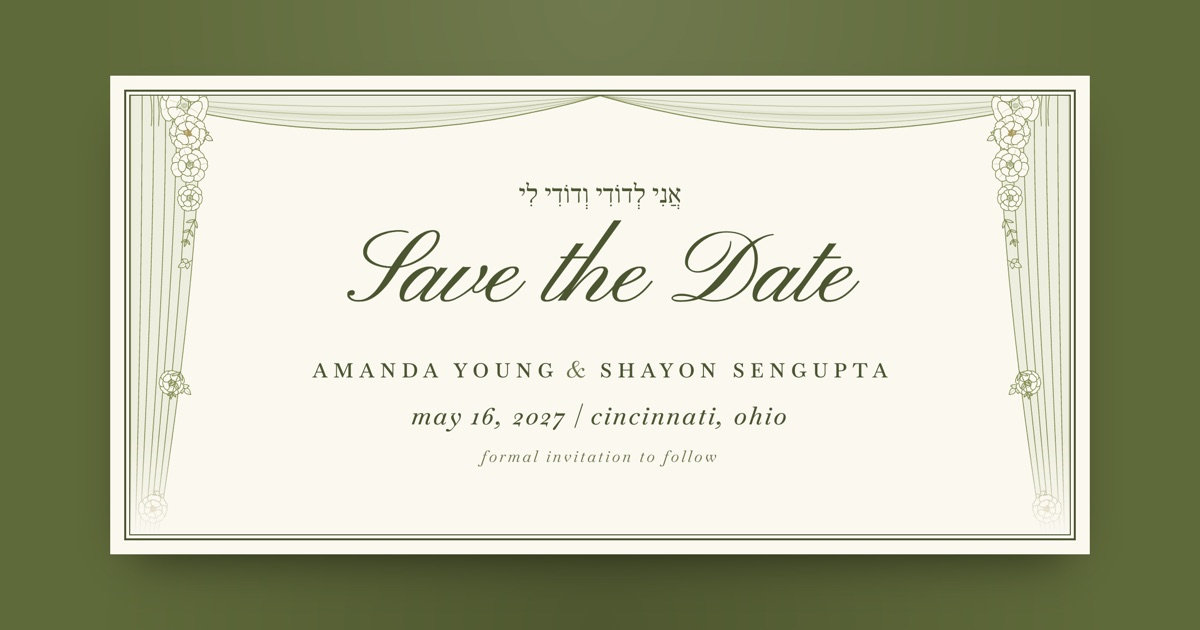
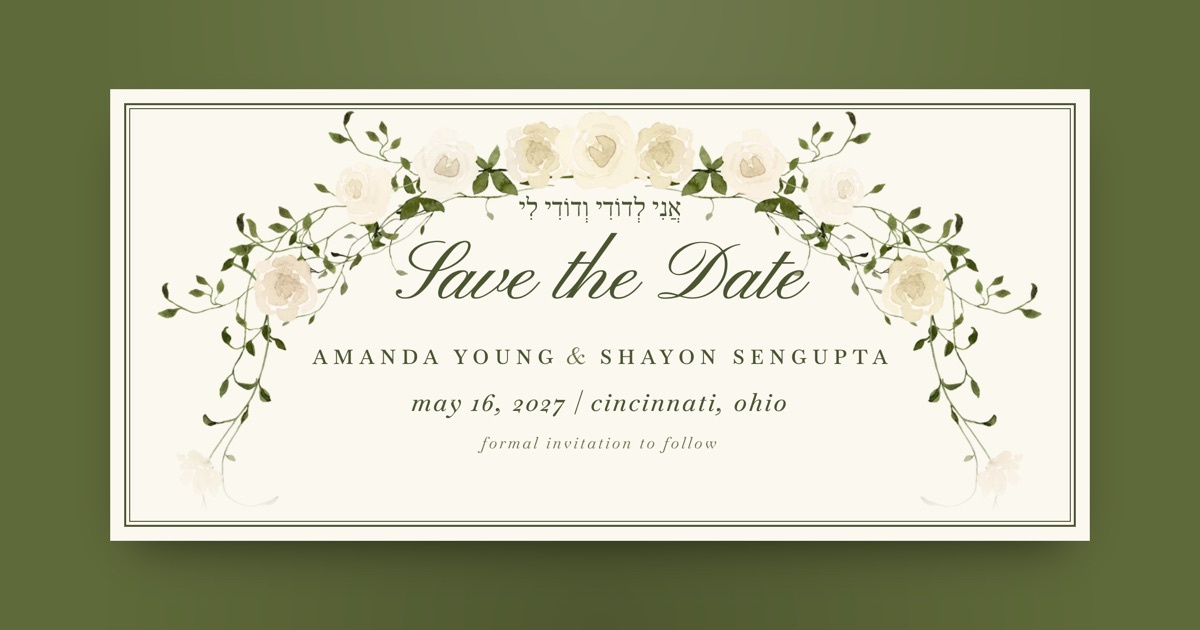
Replace the line-art drapes with a draping arch of ivory roses
- Reviewers found the full-length drapes busy and too much like curtains
- Watercolour rose arch with trailing vines over the header (stock art supplied
  by Amanda), roses recoloured to varied shades of ivory, leaves softened to the
  olive palette (tools-rose-arch.py)
- Remove the drape and swag SVGs; tools-flora.py is no longer used
- Link preview and email images re-rendered

Changed region(s): [[0.0925, 0.1206, 0.925, 0.9048], [0.3392, 0.6333, 0.6783, 0.754]]

diff --git a/styles.css b/styles.css
@@ -78,11 +78,11 @@ body{
   position: relative;
   z-index: 1;
   margin: calc(var(--inset) + 6px);
-  padding: 52px 22px 30px;   /* top clears the swag */
+  padding: 18% 22px 30px;   /* top: under the crown of the rose arch (% of the card's width) */
   text-align: center;
 }
 @media (min-width: 700px){
-  .card-inner{ padding: 72px 56px 44px; }   /* top clears the swag */
+  .card-inner{ padding: 18% 56px 44px; }
 }
 
 /* ---------- hero ---------- */
@@ -140,36 +140,21 @@ body{
   margin: 14px 0 0;
 }
 
-/* ---------- florals: a pair of full-height drapes, flowers along the fabric ----------
-   One drawing (tools-flora.py), mirrored for the right side, hanging just inside
-   the frame. The image keeps its proportions, so its width follows the card
-   height. Phones get a proportionally scaled version. */
-.drape-side{
+/* ---------- florals: a draping arch of ivory roses over the header (the chuppah) ----------
+   assets/rose-arch.webp: a watercolour rose arch with trailing vines, roses recoloured
+   ivory to suit the olive palette. It scales with the card's width. */
+.rose-arch{
   position: absolute;
-  top: var(--hang);
-  bottom: var(--hang);
-  z-index: 0;
-  display: block;
-  pointer-events: none;
-}
-/* swag across the top joining the two drapes at the centre (assets/swag.svg stretches to the card width) */
-.swag{
-  position: absolute;
-  top: var(--hang); left: var(--hang);
-  width: calc(100% - 2 * var(--hang));
-  height: 44px;
+  top: calc(var(--hang) - 2px);
+  left: 50%;
+  transform: translateX(-50%);
+  width: calc(100% - 2 * var(--hang) - 8px);
+  height: auto;
   z-index: 0;
   pointer-events: none;
-}
-@media (max-width: 480px){ .swag{ height: 26px; } }
-.drape-left{ left: var(--hang); }
-.drape-right{ right: var(--hang); transform: scaleX(-1); }
-.drape-side img{ display: block; height: 100%; width: auto; }
-@media (max-width: 699px){
-  .card-inner{ padding-left: 40px; padding-right: 40px; }   /* keep text inside the curtains */
 }
 @media (max-width: 480px){
-  .card-inner{ padding-left: 44px; padding-right: 44px; }
+  .card-inner{ padding-left: 30px; padding-right: 30px; }
   .card-inner .closing-caps{ font-size: 12px; letter-spacing: 0.22em; padding-left: 0.22em; }
   .script-title{ font-size: 36px; white-space: nowrap; }
   .names-caps{ letter-spacing: 0.22em; padding-left: 0.22em; }
@@ -453,9 +438,8 @@ body{
 .preview-og .card{ max-width: 980px; box-shadow: 0 24px 50px -24px rgba(0,0,0,0.6); }
 .preview-og .card-inner > :not(.hero){ display: none; }
 .preview-og .card-inner{ padding: 70px 150px 56px; }
-.preview-og .drape-side{ overflow: hidden; -webkit-mask-image: linear-gradient(#000 78%, transparent); mask-image: linear-gradient(#000 78%, transparent); }
-.preview-og .drape-side img{ height: 1300px; }
-.preview-og .script-title{ font-size: 104px; margin-bottom: 18px; }
+.preview-og .rose-arch{ width: 900px; -webkit-mask-image: linear-gradient(#000 44%, transparent 57%); mask-image: linear-gradient(#000 44%, transparent 57%); }
+.preview-og .script-title{ font-size: 84px; margin-bottom: 14px; }
 .preview-og .names-caps{ font-size: 20px; margin-bottom: 14px; white-space: nowrap; }
 .preview-og .names-caps .name{ display: inline; }
 .preview-og .names-caps .amp{ display: inline; margin: 0 0.6em 0 0.3em; }
@@ -506,7 +490,7 @@ body{
   justify-content: center;
   gap: 2px;
   width: 50px; height: 74px;
-  border: 1.25px solid var(--olive);   /* the drapes' softer olive, so the letters lead */
+  border: 1.25px solid var(--olive);   /* the softer olive, so the letters lead */
   border-radius: 50%;
   font-weight: 500;
   font-size: 17px;

diff --git a/index.html b/index.html
@@ -16,19 +16,19 @@
 <meta property="og:type" content="website" />
 <meta property="og:url" content="https://shayon297.github.io/save-the-date/" />
 <meta property="og:site_name" content="Amanda &amp; Shayon" />
-<meta property="og:image" content="https://shayon297.github.io/save-the-date/assets/og.jpg?v=21" />
+<meta property="og:image" content="https://shayon297.github.io/save-the-date/assets/og.jpg?v=22" />
 <meta property="og:image:width" content="1200" />
 <meta property="og:image:height" content="630" />
 <meta property="og:image:alt" content="Save the Date — Amanda Young and Shayon Sengupta, May 16, 2027, Cincinnati, Ohio. Formal invitation to follow." />
 <meta name="twitter:card" content="summary_large_image" />
 <meta name="twitter:title" content="Save the Date — Amanda &amp; Shayon" />
 <meta name="twitter:description" content="Sunday, May 16, 2027 · Cincinnati Art Museum · Cincinnati, Ohio" />
-<meta name="twitter:image" content="https://shayon297.github.io/save-the-date/assets/og.jpg?v=21" />
+<meta name="twitter:image" content="https://shayon297.github.io/save-the-date/assets/og.jpg?v=22" />
 
 <link rel="preconnect" href="https://fonts.googleapis.com">
 <link rel="preconnect" href="https://fonts.gstatic.com" crossorigin>
 <link href="https://fonts.googleapis.com/css2?family=Baskervville:ital,wght@0,400;0,500;0,600;0,700;1,400;1,500&family=Frank+Ruhl+Libre:wght@400;500&family=Pinyon+Script&display=swap" rel="stylesheet">
-<link rel="stylesheet" href="styles.css?v=57" />
+<link rel="stylesheet" href="styles.css?v=60" />
 <script>
   // ?preview=email / ?preview=og switch the page into fixed layouts used to render the share images
   var pv = new URLSearchParams(location.search).get("preview");
@@ -39,16 +39,8 @@
 
 <main class="page">
   <article class="card">
-    <!-- swag first, so the drapes and their corner roses sit over its ends -->
-    <img class="swag" src="assets/swag.svg?v=7" alt="" aria-hidden="true">
-    <picture class="drape-side drape-left" aria-hidden="true">
-      <source media="(max-width: 699px)" srcset="assets/drape-narrow.svg?v=23">
-      <img src="assets/drape-wide.svg?v=23" alt="">
-    </picture>
-    <picture class="drape-side drape-right" aria-hidden="true">
-      <source media="(max-width: 699px)" srcset="assets/drape-narrow.svg?v=23">
-      <img src="assets/drape-wide.svg?v=23" alt="">
-    </picture>
+    <!-- a draping arch of ivory roses over the header: the chuppah -->
+    <img class="rose-arch" src="assets/rose-arch.webp?v=2" alt="" aria-hidden="true" width="1400" height="1109">
 
     <div class="card-inner">
 

diff --git a/email.html b/email.html
@@ -22,7 +22,7 @@
         <tr>
           <td align="center" style="padding:0;">
             <a href="https://shayon297.github.io/save-the-date/" style="text-decoration:none;">
-              <img src="https://shayon297.github.io/save-the-date/assets/card-email.jpg?v=23" width="600" alt="Save the Date — Shayon Sengupta and Amanda Young, Sunday, May 16, 2027, Cincinnati Art Museum" style="display:block;width:100%;max-width:600px;height:auto;border:0;box-shadow:0 18px 40px -22px rgba(0,0,0,0.45);" />
+              <img src="https://shayon297.github.io/save-the-date/assets/card-email.jpg?v=24" width="600" alt="Save the Date — Shayon Sengupta and Amanda Young, Sunday, May 16, 2027, Cincinnati Art Museum" style="display:block;width:100%;max-width:600px;height:auto;border:0;box-shadow:0 18px 40px -22px rgba(0,0,0,0.45);" />
             </a>
           </td>
         </tr>

diff --git a/tools-rose-arch.py b/tools-rose-arch.py
@@ -1,0 +1,66 @@
+"""Recolour the watercolour rose arch (a stock image with a transparent background) for the card:
+pink roses become varied shades of ivory/cream, leaves are softened toward the olive palette.
+Usage: python3 tools-rose-arch.py OUT.png [WIDTH] SOURCE.webp, then save as assets/rose-arch.webp."""
+from PIL import Image
+import numpy as np, sys
+src = sys.argv[3] if len(sys.argv) > 3 else "rose-arch-source.webp"
+W = int(sys.argv[2]) if len(sys.argv) > 2 else 1400
+im = Image.open(src).convert("RGBA")
+im = im.resize((W, round(im.height * W / im.width)), Image.LANCZOS)
+arr = np.asarray(im).astype(float)
+rgb, a = arr[..., :3] / 255, arr[..., 3]
+r, g, b = rgb[..., 0], rgb[..., 1], rgb[..., 2]
+mx, mn = rgb.max(-1), rgb.min(-1)
+sat = np.where(mx > 0, (mx - mn) / np.maximum(mx, 1e-6), 0)
+pink = np.clip((r - g - 0.005) / 0.07, 0, 1) * np.clip(sat / 0.05, 0, 1)
+lum = 0.3 * r + 0.59 * g + 0.11 * b
+t = np.clip((lum - 0.3) / 0.7, 0, 1) ** 0.65
+# warm sand shadows -> soft cream mid-tones -> ivory highlights
+shadow = np.array([188, 168, 132.0]) / 255
+mid = np.array([236, 224, 198.0]) / 255
+light = np.array([255, 252, 243.0]) / 255
+lo = shadow[None, None] + (mid - shadow)[None, None] * np.clip(t / 0.55, 0, 1)[..., None]
+hi = mid[None, None] + (light - mid)[None, None] * np.clip((t - 0.55) / 0.45, 0, 1)[..., None]
+ivory = np.where((t < 0.55)[..., None], lo, hi)
+
+# give each rose its own shade of cream: find the roses (blobs of rose colour) and tint each one
+from collections import deque
+step = 6
+small = pink[::step, ::step] > 0.35
+seen = np.zeros_like(small, bool); cents = []
+for y0 in range(small.shape[0]):
+    for x0 in range(small.shape[1]):
+        if small[y0, x0] and not seen[y0, x0]:
+            q = deque([(y0, x0)]); seen[y0, x0] = True; pts = []
+            while q:
+                y, x = q.popleft(); pts.append((y, x))
+                for dy, dx in ((1,0),(-1,0),(0,1),(0,-1)):
+                    yy, xx = y + dy, x + dx
+                    if 0 <= yy < small.shape[0] and 0 <= xx < small.shape[1] and small[yy, xx] and not seen[yy, xx]:
+                        seen[yy, xx] = True; q.append((yy, xx))
+            if len(pts) > 12:
+                p = np.array(pts); cents.append((p[:, 0].mean() * step, p[:, 1].mean() * step))
+# shades: (multiplier on the cream, applied mostly in the mid-tones and shadows)
+tints = [np.array(v) for v in ([1.0, 1.0, 1.0],          # warm ivory
+                               [1.0, 0.975, 0.93],       # champagne
+                               [1.0, 0.965, 0.955],      # soft blush cream
+                               [1.0, 0.99, 0.9],         # butter
+                               [0.985, 0.99, 1.0])]      # pearl
+order = sorted(range(len(cents)), key=lambda i: cents[i][1])
+choice = {}
+seq = [0, 2, 1, 4, 3, 1, 0, 3, 2, 4, 1, 0]
+for k, i in enumerate(order): choice[i] = seq[k % len(seq)]
+if cents:
+    yy, xx = np.mgrid[0:pink.shape[0], 0:pink.shape[1]]
+    C = np.array(cents)
+    d = (yy[..., None] - C[None, None, :, 0]) ** 2 + (xx[..., None] - C[None, None, :, 1]) ** 2
+    near = d.argmin(-1)
+    mult = np.stack([tints[choice[i]] for i in range(len(cents))])[near]
+    depth = (1 - t)[..., None] * 0.7 + 0.3          # stronger in the shadows, gentle in highlights
+    ivory = ivory * (1 - depth + depth * mult)
+print(len(cents), "roses")
+out = rgb * (1 - pink[..., None]) + ivory * pink[..., None]
+leaf = 1 - pink
+grey = out.mean(-1, keepdims=True)
+out = out * (1 - 0.25 * leaf[..., None]) + grey * (0.25 * leaf[..., None])
+Image.fromarray(np.dstack([(out.clip(0, 1) * 255), a]).astype("uint8"), "RGBA").save(sys.argv[1], optimize=True)

diff --git a/CLAUDE.md b/CLAUDE.md
@@ -14,9 +14,9 @@ Sunday, May 16, 2027 at the Cincinnati Art Museum.
 | `styles.css` | All styling. Palette and fonts are CSS variables at the top |
 | `script.js` | Countdown, "Add to calendar" links, address form |
 | `assets/welcome-party.ics`, `assets/wedding.ics` | Calendar files for Apple / Outlook. Keep in sync with `EVENTS` in `script.js` |
-| `tools-flora.py` | Draws the drapes, flowers and the top swag. Run `python3 tools-flora.py assets` to regenerate them |
-| `assets/drape-wide.svg`, `assets/drape-narrow.svg` | Generated drapes (desktop / phone and tablet). Don't hand-edit; change `tools-flora.py` |
-| `assets/swag.svg` | Generated shallow swag across the top joining the drapes at the centre (stretches to the card width) |
+| `tools-rose-arch.py` | Recolours the stock watercolour rose arch (pink → varied ivory) into `assets/rose-arch.webp` |
+| `tools-flora.py` | Old line-art drape generator; no longer used on the page (kept for reference) |
+| `assets/rose-arch.webp` | The draping arch of ivory roses over the header (the chuppah). Stock watercolour art Amanda supplied, recoloured; confirm its licence covers this use |
 | `assets/engagement.jpg` | Engagement photo in the arched frame under the header (the figure hides itself if the file is missing) |
 | `assets/favicon-32.png`, `assets/favicon-64.png`, `assets/apple-touch-icon.png` | Browser tab and home-screen icons: the A S oval monogram. Rendered from `.ba/icon.html`-style markup (not in the repo); re-render if the monogram changes |
 | `assets/og.jpg` | Link preview (1200×630), rendered from the page with `?preview=og` |
@@ -93,18 +93,10 @@ and a phone width (375px) before calling a change done.
   ink for screen readability. Form fields are visible boxes; the button reads
   "Submit mailing address".
 - "Save the Date" is ~12% smaller than before so the names lead.
-- Drapes (Amanda's pick, "B" + "C"'s swag): full-height drapes hanging from the
-  frame's top corners with a pale fabric fill; the outer edge stays flush with the
-  frame and the tie-back (about a third of the way down) gathers the folds against
-  it, widening gradually to the hem, which rests on the bottom inner rule. A light
-  vine runs along each inner edge with full rose clusters at the top corner and at
-  the tie, and only a few single roses and leaves between (thinned by half to stay as
-  quiet as museo). No tiny buds (they read as specks) and no side-view roses (they
-  read as doodles). Line weights are engraving-style: crisp petal outlines, lighter
-  inner curves and veins. Below the tie-backs the drapes are plain fabric (no vine or
-  flowers), so the schedule and form have room. A shallow scalloped swag runs across the top from
-  each drape and the two halves meet at the centre (no knot, tail or centre tie);
-  it sits behind the drapes.
+- Chuppah: a draping watercolour arch of ivory roses with trailing vines over the
+  header (assets/rose-arch.webp), each rose a slightly different cream. It replaced the
+  full-length line-art drapes, which reviewers found busy and too much like curtains.
+  The rest of the card is plain inside the double-rule frame.
 - The monogram is museo's own: A over S in Baskervville capitals inside a double-ruled
   oval (rings in the lighter olive, letters in ink) (as on museo's enclosure cards and belly band). Script monograms were tried and
   rejected (Pinyon's S reads as an L).
@@ -112,7 +104,8 @@ and a phone width (375px) before calling a change done.
   email, text message), the usual order on wedding stationery.
 - Phones should look like a scaled-down desktop, not a different design, and
   text must not touch the drapes.
-- Tried and rejected: a deep swag with a long hanging tail; a curtain-top arch; curtains drawn from a rod meeting at the centre (round or pointed opening); literal classical motifs (Cinzel inscription capitals,
+- Tried and rejected: full-length line-art drapes (read as curtains); hand-coded rose
+  drawings (never looked right); a deep swag with a long hanging tail; a curtain-top arch; curtains drawn from a rod meeting at the centre (round or pointed opening); literal classical motifs (Cinzel inscription capitals,
   Greek-key dividers, a laurel wreath around the monogram, Roman-numeral date),
   pinstripe borders, all-over flower patterns, extra frames
   competing with the drapes. (An earlier note rejected flowers bunched at the ties;
